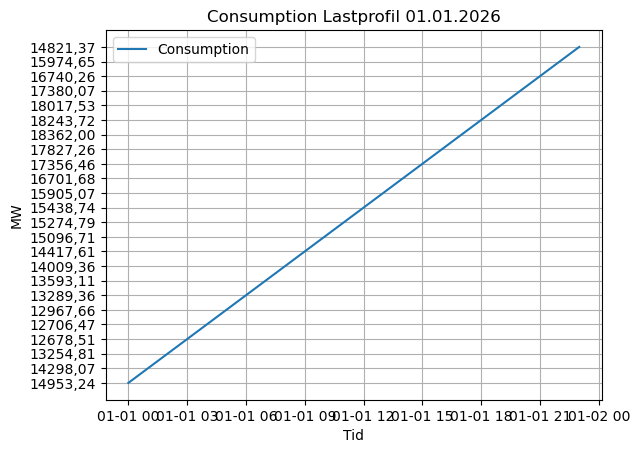
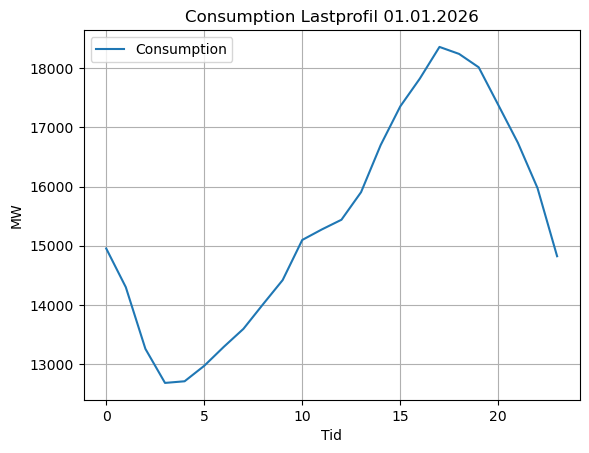
PDF innlevering

Changed region(s): [[0.0, 0.0618, 1.0, 0.989], [0.3056, 0.0, 0.8251, 0.0618], [0.9779, 0.0618, 1.0, 0.0927]]

diff --git a/Øving 4/Øving4_python.py b/Øving 4/Øving4_python.py
@@ -9,24 +9,28 @@ import pandas as pd
 import matplotlib.pyplot as plt
 
 df = pd.read_csv( "load_data.csv",parse_dates=[0], index_col=0, dayfirst=True);
-df.index=pd.to_datetime(df.index, utc=True);
-
+df["Production"] = pd.to_numeric(df["Production"].astype(str).str.replace(",", "."))
+df["Consumption"] = pd.to_numeric(df["Consumption"].astype(str).str.replace(",", "."))
 
 #Oppgave 4
 print(df.head())
 
 
 #Oppgave 5
-
 print (df.index[0])
 
 
 
 #Oppgave 6
+#Jeg legger til pd.to_datetime for det gjør det om til riktig format for df.loc
+df.index=pd.to_datetime(df.index, utc=True);
+kl_3=df.loc["2026-01-01 03:00"];
 day = df.loc["2026-01-01"];
+print(kl_3)
+
 
 #Jeg lager 2 forskjellige plott siden jeg har en y-akse med verdier som overlapper
-plt.plot(day.index, day["Consumption"], label="Consumption")
+plt.plot(day.index.hour, day["Consumption"], label="Consumption")
 plt.title("Consumption Lastprofil 01.01.2026")
 plt.xlabel("Tid")
 plt.ylabel("MW")
@@ -34,7 +38,7 @@ plt.grid()
 plt.legend()
 plt.show()
 
-plt.plot(day.index, day["Production"], label="Production")
+plt.plot(day.index.hour, day["Production"], label="Production")
 plt.title("Production Lastprofil 01.01.2026")
 plt.xlabel("Tid")
 plt.ylabel("MW")
@@ -43,13 +47,8 @@ plt.legend()
 plt.show()
 
 
-
 #Oppgave 7
-
-df["Production"] = pd.to_numeric(df["Production"].astype(str).str.replace(",", "."))
-df["Consumption"] = pd.to_numeric(df["Consumption"].astype(str).str.replace(",", "."))
 df["Netto"] = df["Production"]-df["Consumption"]
-
 print(df["Netto"])
 
 #Oppgave 8
@@ -64,42 +63,39 @@ print(Pro_min)
 
 
 #Oppgave 9
-
-
 Nett_max=df["Netto"].max()
 Nett_min=df["Netto"].min()
+Nett_max_index = df["Netto"].idxmax()
+Nett_min_index = df["Netto"].idxmin()
 print(Nett_max)
+print(Nett_max_index)
 print(Nett_min)
-
+print(Nett_min_index)
 
 #Oppgave 10
 Sum = df["Production"].sum()
 print(Sum)
 
-
 #Oppgave 11
-
 df.plot(y=["Production", "Consumption"],figsize=(10,5))
-
 plt.title("Produksjon og forbruk som funksjon av tid")
 plt.xlabel("Tid")
 plt.ylabel("MW")
-plt.grid(True)
+plt.grid()
 plt.legend()
 plt.show()
 
 #Oppgave 12
 df.plot(y=["Production", "Consumption", "Netto"],figsize=(10,5))
-
 plt.title("Produksjon, forbruk og nettoeffekt som funksjon av tid")
 plt.xlabel("Tid")
 plt.ylabel("MW")
-plt.grid(True)
+plt.grid()
 plt.legend()
-plt.show()
+plt.show() #Big error ved 2026-04-13 15:00:00+00:00
 
 #Oppgave 13
-
+#Det er ikke en oppgave 13
 
 #Oppgave 14
 Max_Pro_index= df["Production"].idxmax()
